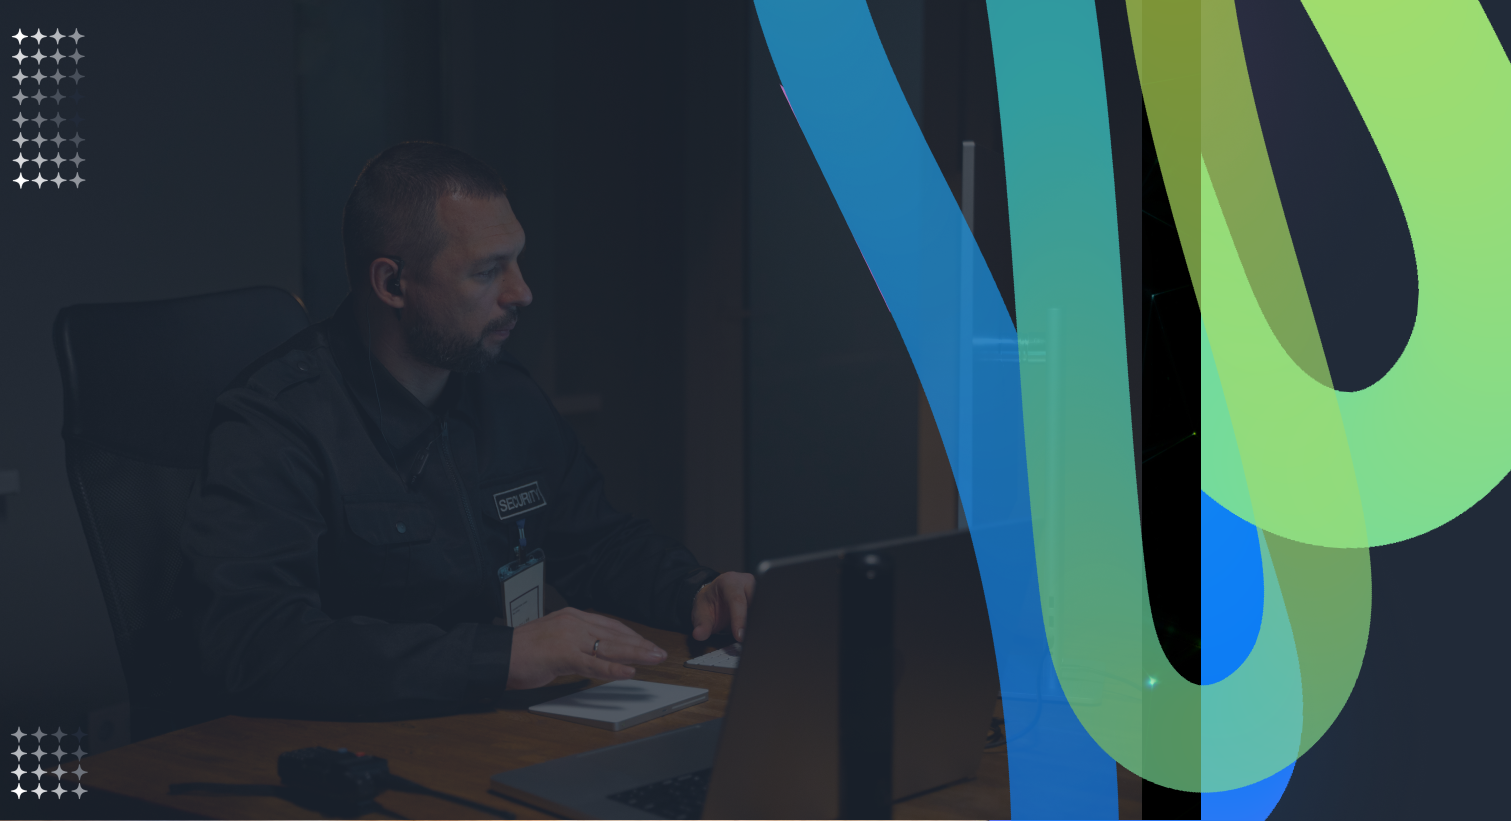
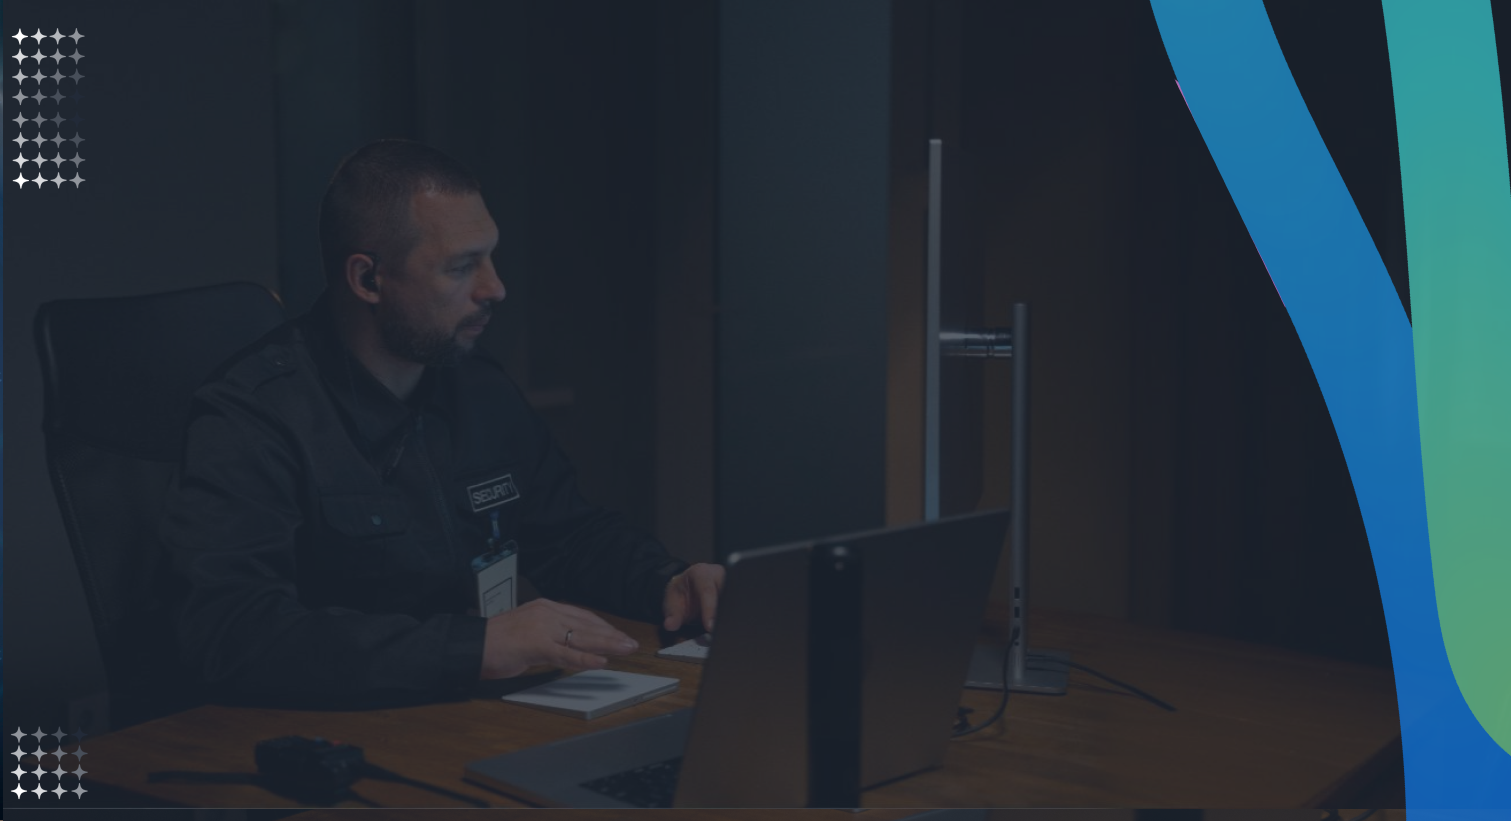
fix: fix admin login page

diff --git a/app/login-admin/page.tsx b/app/login-admin/page.tsx
@@ -9,14 +9,8 @@ export default function Login() {
         <Image src={logo} alt="logo" className="relative -left-8 h-16" />
       </header>
       <main className="row-start-2 flex min-h-fit w-full flex-col items-center bg-primary sm:items-start">
-        <div className="relative flex w-full flex-col bg-login-admin-bg bg-cover bg-center bg-no-repeat">
-          <div className="flex w-full">
-            <div className="hidden w-full items-center justify-center md:flex">
-              {/* <Image src={logoLogin} alt="login images" /> */}
-            </div>
-
-            <LoginForm isAdminPage />
-          </div>
+        <div className="mb-0 flex h-[calc(100svh-theme(spacing.19))] w-full flex-col items-center justify-center bg-login-admin-bg bg-cover bg-center bg-no-repeat p-2">
+          <LoginForm isAdminPage />
         </div>
       </main>
     </>
